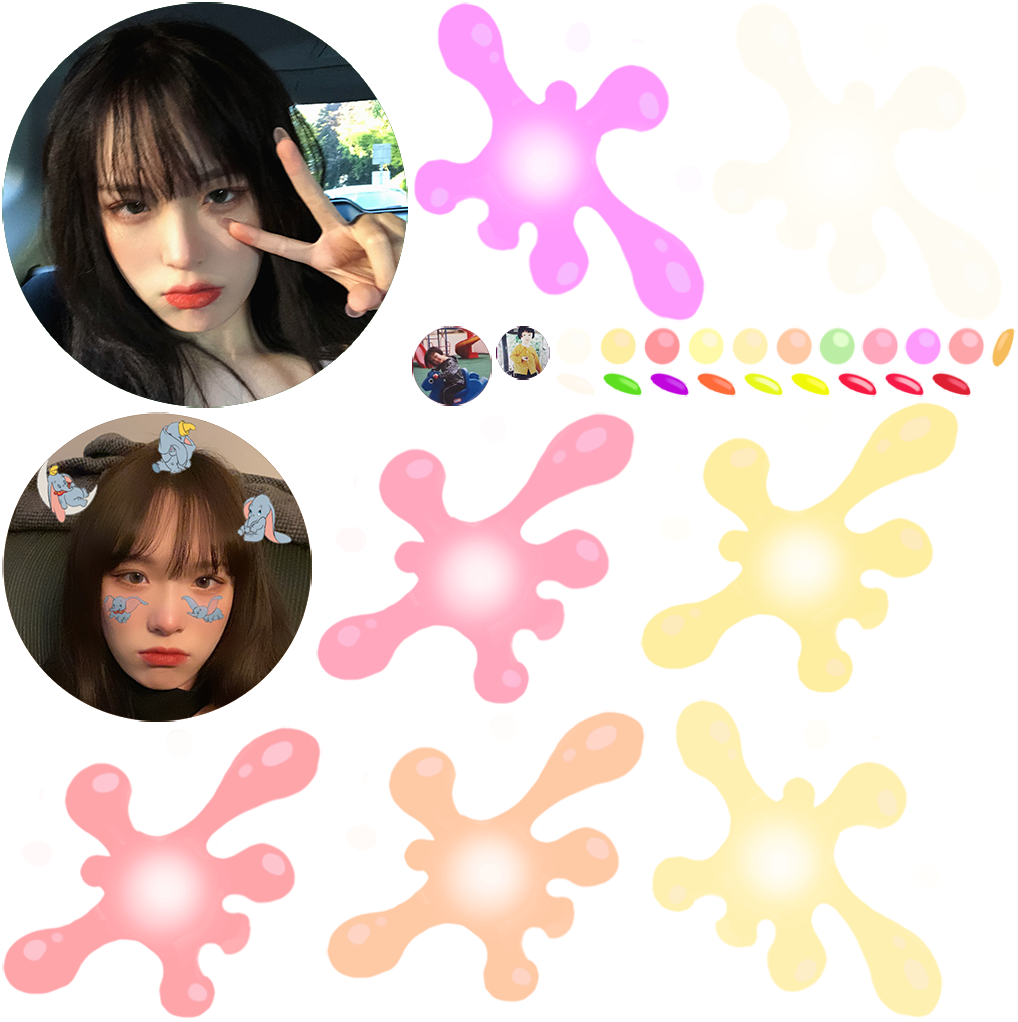
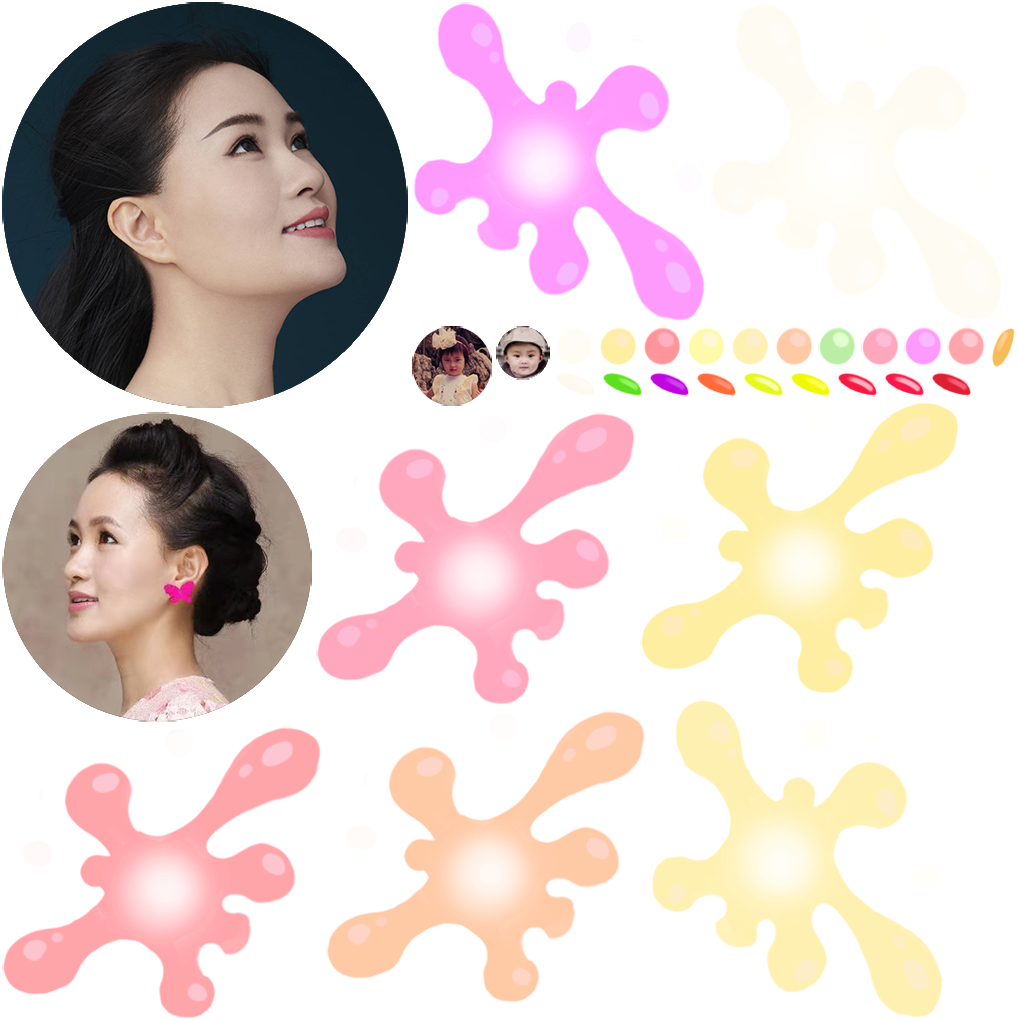
nitial commit

Changed region(s): [[0.0, 0.0, 0.4263, 0.728], [0.3959, 0.3033, 0.5481, 0.3943]]

diff --git a/index.html b/index.html
@@ -1,10 +1,10 @@
-<!DOCTYPE html>
+<!DOCTYPE html>
 <html>
 
 <head>
     <meta charset="utf-8">
 
-    <title>合成大欧派</title>
+    <title>合成雷小佳</title>
 
     <!--http://www.html5rocks.com/en/mobile/mobifying/-->
     <meta name="viewport" content="width=device-width,user-scalable=no,initial-scale=1, minimum-scale=1,maximum-scale=1" />
@@ -109,7 +109,7 @@
             //        console.log("window.navigator.language",window.navigator.language);
 
             if (window.navigator.language == "zh-CN" || window.navigator.language == "zh-cn") {
-                document.title = "合成大欧派";
+                document.title = "合成雷小佳";
             } 
 
 
